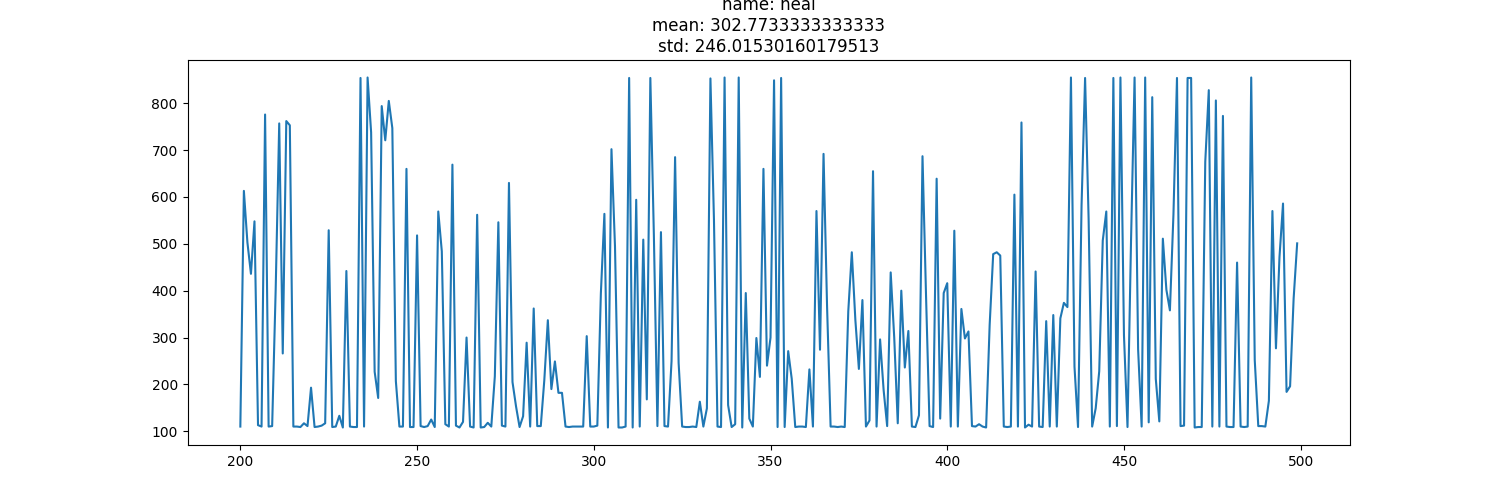
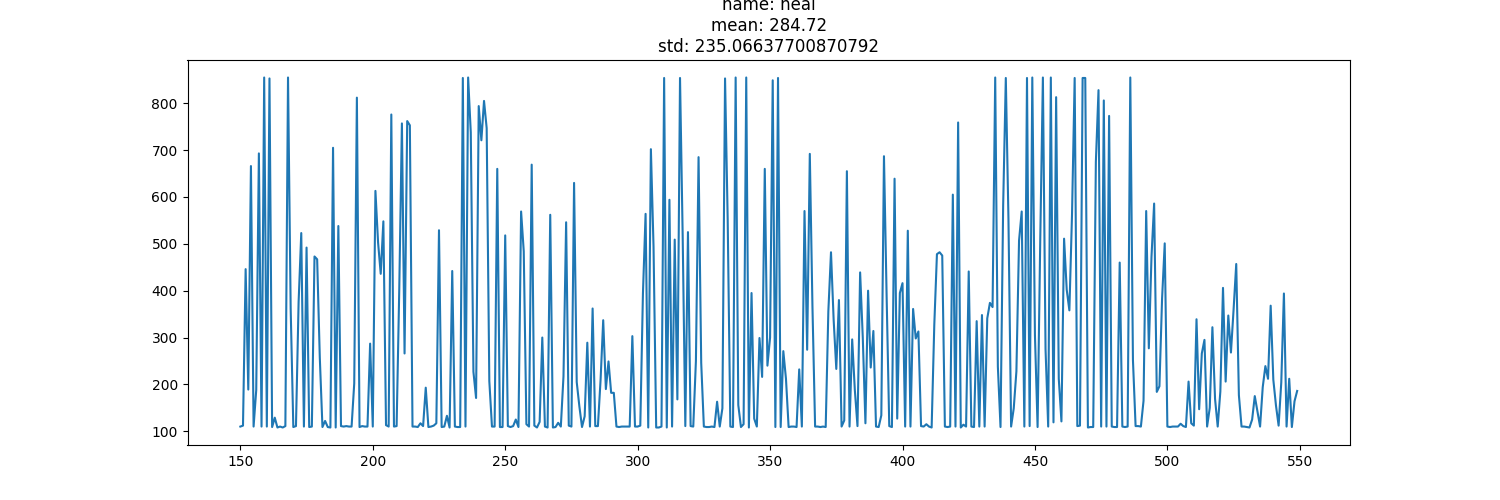
made 100 bins in histograms. added z-score histogram figures.

diff --git a/activity3.py b/activity3.py
@@ -27,8 +27,8 @@ for file in files:
 
     ## EXTRACTING DATA
     name = file.split('\\')[-1].split('.')[0]
-    freq = data['raw_data'][200:500]
-    idx = data.index[200:500]
+    freq = data['raw_data'][150:550]
+    idx = data.index[150:550]
 
     ## STATISTICAL ANALYSIS
     array = np.array(freq)
@@ -44,7 +44,7 @@ for file in files:
 
     ## PLOTTING histograms
     plt.figure(figsize=(15,5))
-    plt.hist(freq, bins=30)
+    plt.hist(freq, bins=100)
     plt.title(f'name: {name}\nmean: {mean}\nstd: {std}', loc='center')
     #### SAVE PLOT
     plt.savefig(f'activity3\\histograms\\{name}.png')
@@ -59,4 +59,12 @@ for file in files:
     figure.suptitle(f'name: {name}\nmean: {mean}\nstd: {std}')
     figure.savefig(f'activity3\\twoPlots\\{name}.png')
 
+    ## PLOTTTING ZSCORE FREQ
+    z_scoreFreq = [(f-mean)/std for f in freq]
+    plt.figure(figsize=(15,5))
+    plt.hist(z_scoreFreq, bins=100)
+    plt.title(f'name: Z-Score {name}\nmean: {mean}\nstd: {std}', loc='center')
+    #### SAVE PLOT
+    plt.savefig(f'activity3\\z-scoreHistograms\\{name}.png')
 
+print(z_scoreFreq)
